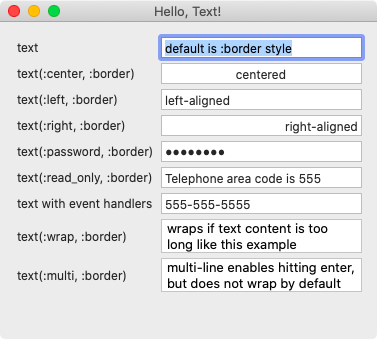
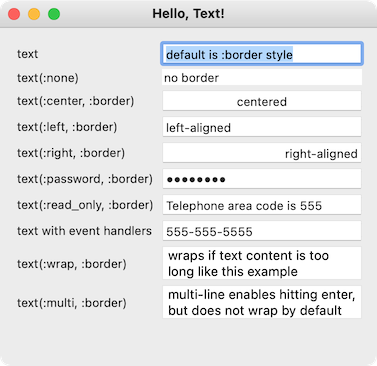
Changed data-binding to be unidirectional for read_only text field in Hello, Text! and added no-border text field

diff --git a/samples/hello/hello_text.rb b/samples/hello/hello_text.rb
@@ -24,10 +24,11 @@ require 'glimmer-dsl-swt'
 class HelloText
   include Glimmer::UI::CustomShell
   
-  attr_accessor :default, :center, :left, :right, :password, :telephone, :read_only, :wrap, :multi
+  attr_accessor :default, :no_border, :center, :left, :right, :password, :telephone, :read_only, :wrap, :multi
   
   before_body do
     self.default = 'default is :border style'
+    self.no_border = 'no border'
     self.center = 'centered'
     self.left = 'left-aligned'
     self.right = 'right-aligned'
@@ -51,6 +52,14 @@ class HelloText
       text { # includes :border style by default
         layout_data :fill, :center, true, false
         text <=> [self, :default]
+      }
+      
+      label {
+        text 'text(:none)'
+      }
+      text(:none) { # no border
+        layout_data :fill, :center, true, false
+        text <=> [self, :no_border]
       }
       
       label {
@@ -90,7 +99,7 @@ class HelloText
       }
       text(:read_only, :border) {
         layout_data :fill, :center, true, false
-        text <=> [self, :read_only]
+        text <= [self, :read_only]
       }
       
       label {

diff --git a/samples/hello/hello_canvas.rb b/samples/hello/hello_canvas.rb
@@ -48,6 +48,7 @@ class HelloCanvas
     
       @canvas = canvas {
         background :yellow
+        
         rectangle(0, 0, 220, 400) {
           background rgb(255, 0, 0)
         }

diff --git a/README.md b/README.md
@@ -1,4 +1,4 @@
-# [<img src="https://raw.githubusercontent.com/AndyObtiva/glimmer/master/images/glimmer-logo-hi-res.png" height=85 />](https://github.com/AndyObtiva/glimmer) Glimmer DSL for SWT 4.20.15.2
+# [<img src="https://raw.githubusercontent.com/AndyObtiva/glimmer/master/images/glimmer-logo-hi-res.png" height=85 />](https://github.com/AndyObtiva/glimmer) Glimmer DSL for SWT 4.20.15.3
 ## JRuby Desktop Development GUI Framework
 [![Gem Version](https://badge.fury.io/rb/glimmer-dsl-swt.svg)](http://badge.fury.io/rb/glimmer-dsl-swt)
 [![Travis CI](https://travis-ci.com/AndyObtiva/glimmer-dsl-swt.svg?branch=master)](https://travis-ci.com/github/AndyObtiva/glimmer-dsl-swt)
@@ -15,7 +15,7 @@
 [<img src="https://covers.oreillystatic.com/images/9780596519650/lrg.jpg" width=105 /><br />
 Featured in JRuby Cookbook](http://shop.oreilly.com/product/9780596519650.do) and [Chalmers/Gothenburg University Software Engineering Master's Lecture Material](http://www.cse.chalmers.se/~bergert/slides/guest_lecture_DSLs.pdf)
 
-[Glimmer DSL for SWT](https://rubygems.org/gems/glimmer-dsl-swt) 4.20.15.2 includes [SWT 4.20](https://download.eclipse.org/eclipse/downloads/drops4/R-4.20-202106111600/), which was released on June 11, 2021. Gem version numbers are in sync with the SWT library versions. The first two digits represent the SWT version number. The last two digits represent the minor and patch versions of Glimmer DSL for SWT. Note that SWT now supports AARCH64 on Mac and Linux, but it is not fully tested in Glimmer DSL for SWT yet, so deem its support experimental for the time being without guarantees for functionality until declared otherwise (please report any issues you may encounter).
+[Glimmer DSL for SWT](https://rubygems.org/gems/glimmer-dsl-swt) 4.20.15.3 includes [SWT 4.20](https://download.eclipse.org/eclipse/downloads/drops4/R-4.20-202106111600/), which was released on June 11, 2021. Gem version numbers are in sync with the SWT library versions. The first two digits represent the SWT version number. The last two digits represent the minor and patch versions of Glimmer DSL for SWT. Note that SWT now supports AARCH64 on Mac and Linux, but it is not fully tested in Glimmer DSL for SWT yet, so deem its support experimental for the time being without guarantees for functionality until declared otherwise (please report any issues you may encounter).
 
 **Starting in version 4.20.0.0, [Glimmer DSL for SWT](https://rubygems.org/gems/glimmer-dsl-swt) comes with the new [***Shine***](/docs/reference/GLIMMER_GUI_DSL_SYNTAX.md#shine) syntax** for highly intuitive and visually expressive View/Model Attribute Mapping, relying on `<=>` for bidirectional (two-way) data-binding and `<=` for unidirectional (one-way) data-binding, providing an alternative to the `bind` keyword (keep in mind that it is still a beta, so default back to `bind` whenever needed).
 
@@ -321,7 +321,7 @@ jgem install glimmer-dsl-swt
 
 Or this command if you want a specific version:
 ```
-jgem install glimmer-dsl-swt -v 4.20.15.2
+jgem install glimmer-dsl-swt -v 4.20.15.3
 ```
 
 `jgem` is JRuby's version of `gem` command.
@@ -349,7 +349,7 @@ Note: if you're using activerecord or activesupport, keep in mind that Glimmer u
 
 Add the following to `Gemfile`:
 ```
-gem 'glimmer-dsl-swt', '~> 4.20.15.2'
+gem 'glimmer-dsl-swt', '~> 4.20.15.3'
 ```
 
 And, then run:
@@ -370,7 +370,7 @@ glimmer
 ```
 
 ```
-Glimmer (JRuby Desktop Development GUI Framework) - JRuby Gem: glimmer-dsl-swt v4.20.15.2
+Glimmer (JRuby Desktop Development GUI Framework) - JRuby Gem: glimmer-dsl-swt v4.20.15.3
       
 Usage: glimmer [--bundler] [--pd] [--quiet] [--debug] [--log-level=VALUE] [[ENV_VAR=VALUE]...] [[-jruby-option]...] (application.rb or task[task_args]) [[application2.rb]...]
 

diff --git a/CHANGELOG.md b/CHANGELOG.md
@@ -1,5 +1,9 @@
 # Change Log
 
+### 4.20.15.3
+
+- Updated Hello, Text! sample to have a no-border `text` widget
+
 ### 4.20.15.2
 
 - Fixed `widget#print` support and Hello, Print Dialog! handling of cancellation of printing
